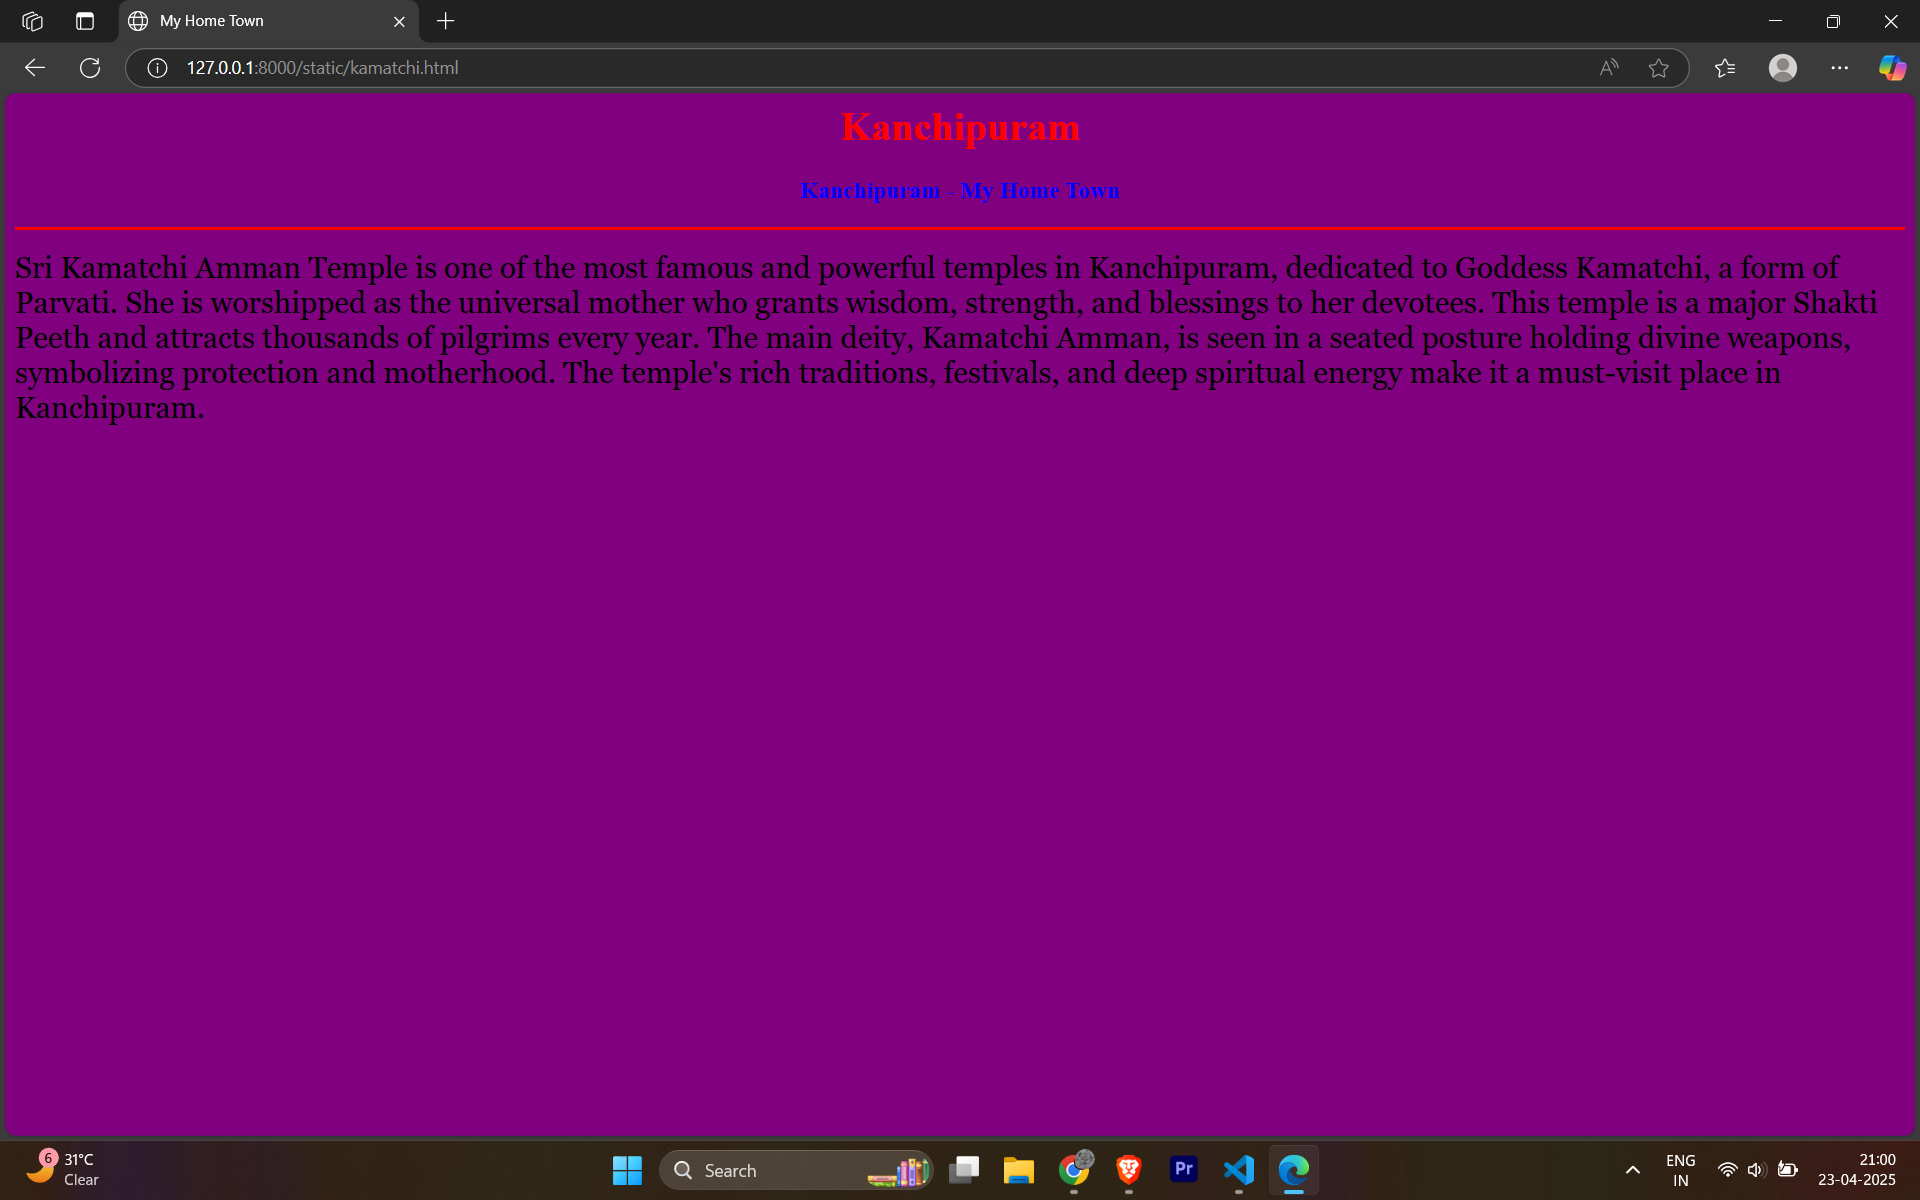
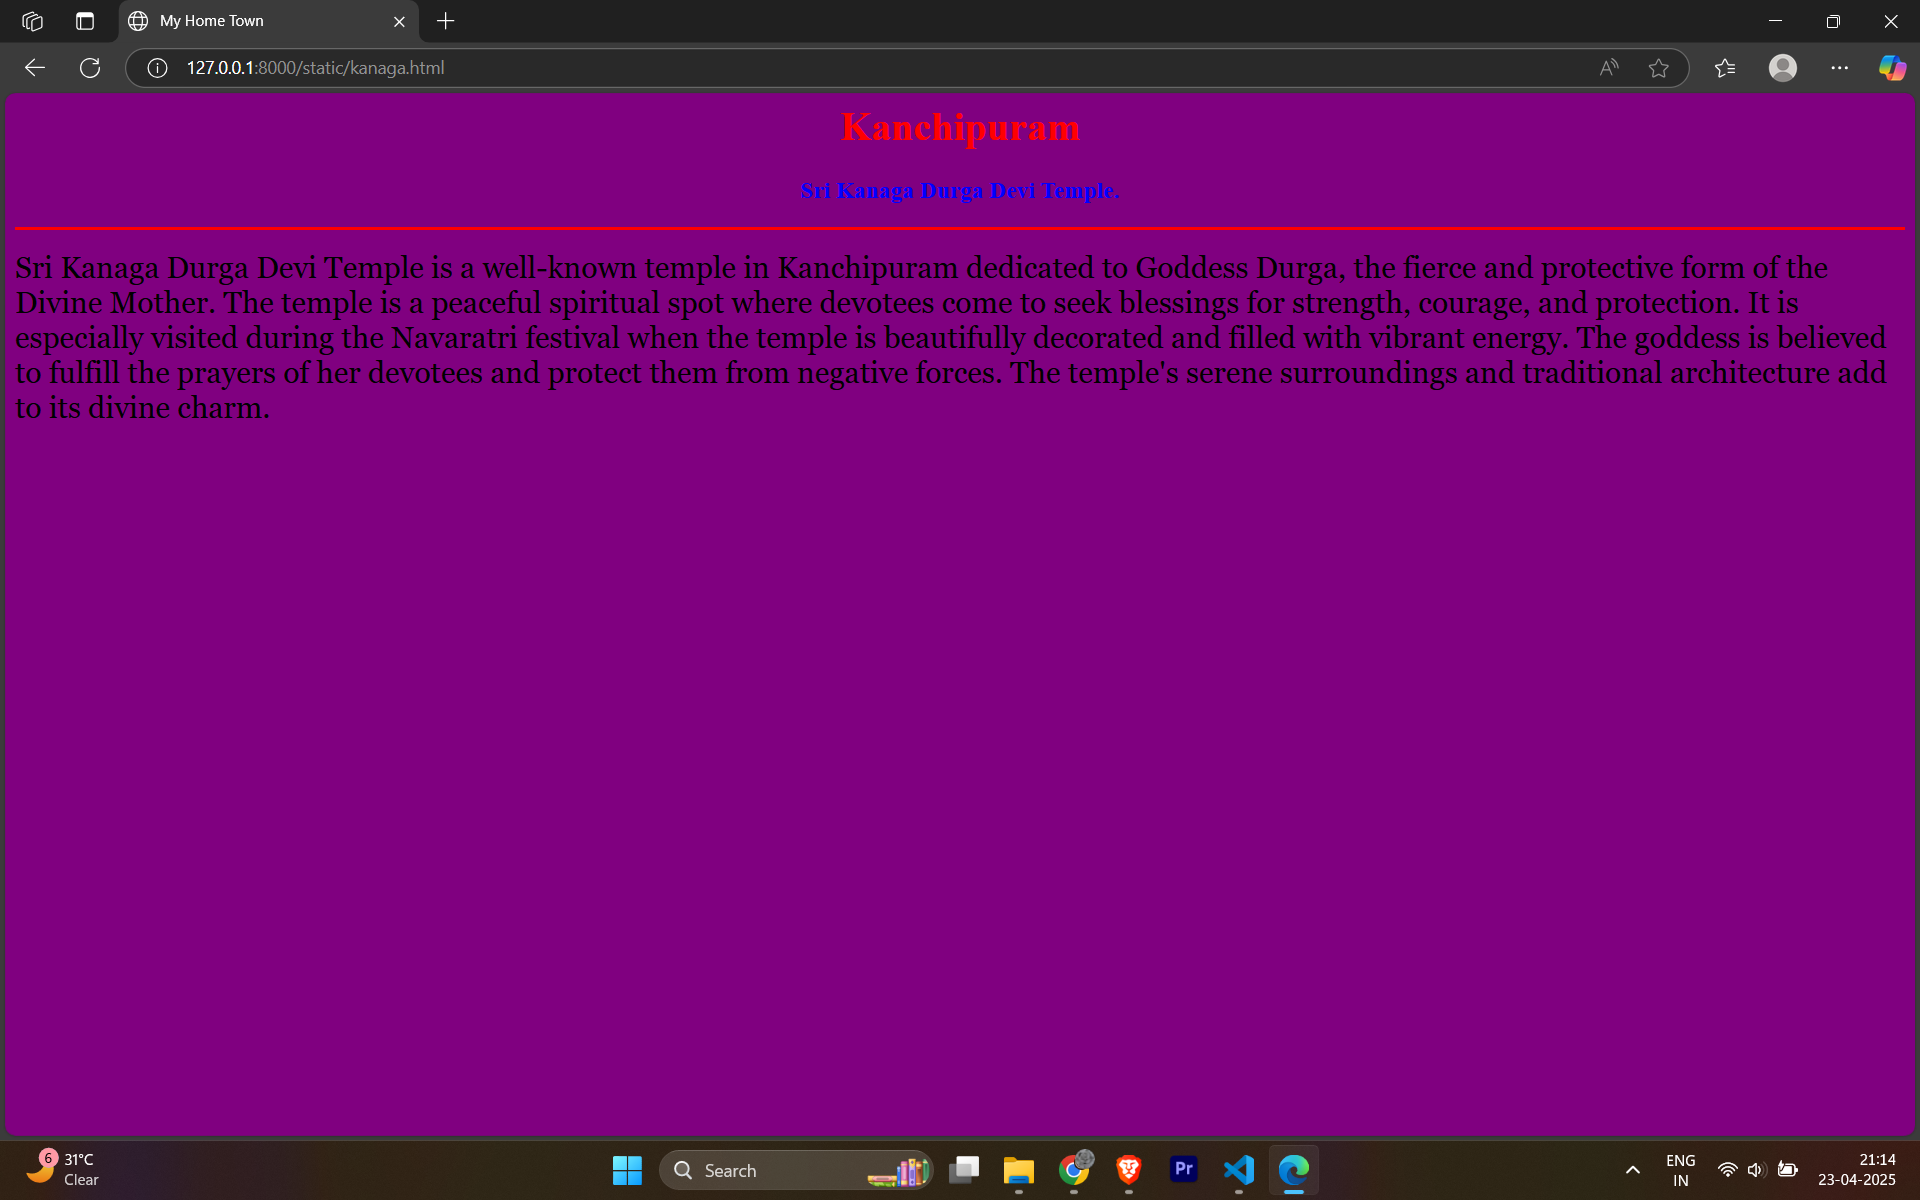
success

Changed region(s): [[0.0, 0.2158, 1.0, 0.37], [0.4062, 0.1542, 0.5938, 0.185], [0.1875, 0.0308, 0.25, 0.0617]]

diff --git a/adi/mapapp/static/soonavannam.html b/adi/mapapp/static/soonavannam.html
@@ -9,7 +9,7 @@
             <font color="red"><b>Kanchipuram</b></font>
         </h1>
         <h3 align="center">
-            <font color="blue"><b>Kanchipuram - My Home Town</b></font>
+            <font color="blue"><b>Sri Soonavannam Seidha Perumal Temple</b></font>
         </h3>
         <hr size="3" color="red">
         <p alin="justify">

diff --git a/adi/mapapp/static/kanaga.html b/adi/mapapp/static/kanaga.html
@@ -9,7 +9,7 @@
             <font color="red"><b>Kanchipuram</b></font>
         </h1>
         <h3 align="center">
-            <font color="blue"><b>Kanchipuram - My Home Town</b></font>
+            <font color="blue"><b>Sri Kanaga Durga Devi Temple.</b></font>
         </h3>
         <hr size="3" color="red">
         <p alin="justify">

diff --git a/adi/mapapp/static/kamatchi.html b/adi/mapapp/static/kamatchi.html
@@ -9,7 +9,7 @@
             <font color="red"><b>Kanchipuram</b></font>
         </h1>
         <h3 align="center">
-            <font color="blue"><b>Kanchipuram - My Home Town</b></font>
+            <font color="blue"><b>Sri Kamatchi Amman Temple.</b></font>
         </h3>
         <hr size="3" color="red">
         <p alin="justify">

diff --git a/adi/mapapp/static/kaasi.html b/adi/mapapp/static/kaasi.html
@@ -9,7 +9,7 @@
             <font color="red"><b>Kanchipuram</b></font>
         </h1>
         <h3 align="center">
-            <font color="blue"><b>Kanchipuram - My Home Town</b></font>
+            <font color="blue"><b>Kailasanathar Temple</b></font>
         </h3>
         <hr size="3" color="red">
         <p align="justify">

diff --git a/README.md b/README.md
@@ -190,8 +190,8 @@ Adithya Sivakumar 212224040013
 ![alt text](1.png) 
 ![alt text](2.png)
 ![alt text](3.png)
-![alt text](4.png) 
-![alt text](5.png) 
+![alt text](4.png)
+![alt text](5.png)
 ![alt text](6.png)
 
 ## RESULT
